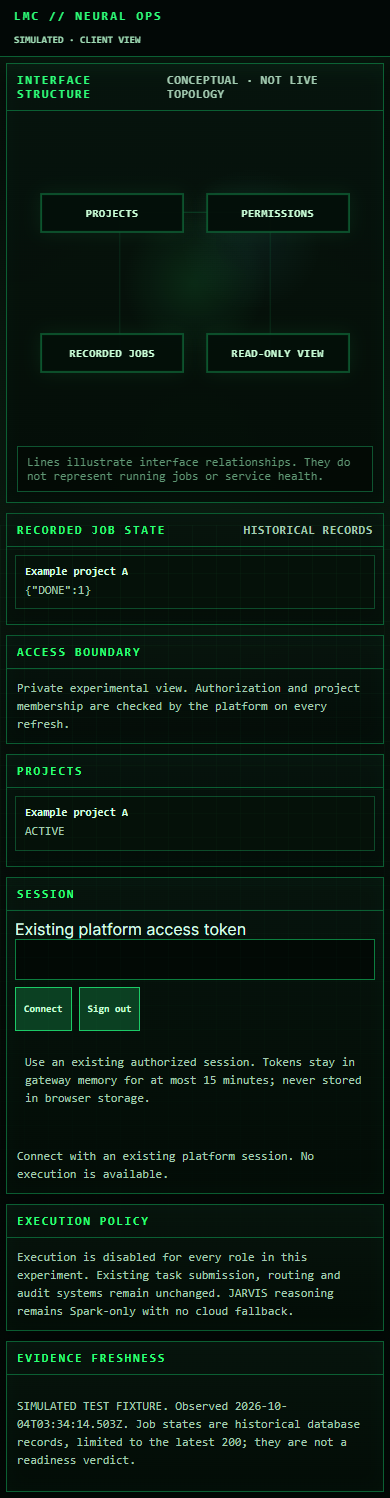
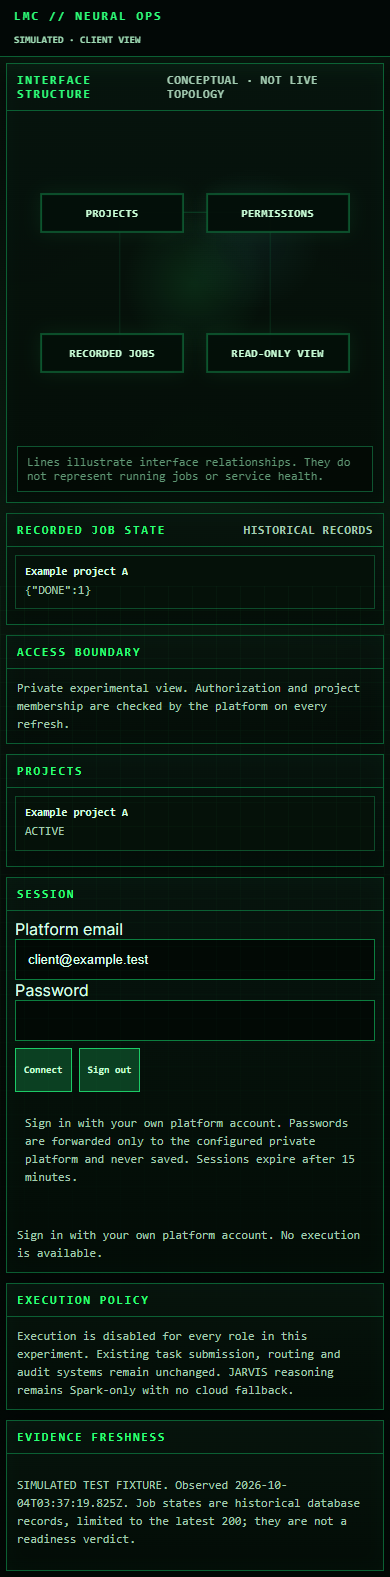
Use individual platform sign-in for private operations

diff --git a/ops.html b/ops.html
@@ -36,5 +36,5 @@ svg{position:absolute;inset:0;width:100%;height:100%}.edge{stroke:#127440;stroke
 <main class="shell">
 <section class="left"><div class="panel"><div class="ph">Access boundary</div><div class="note" id="boundary">Experimental, read-only interface. This public preview makes no private network requests and contains no project telemetry.</div></div><div class="panel"><div class="ph">Projects</div><div class="stack" id="projects"><p class="note">No authenticated project data loaded.</p></div></div></section>
 <section class="center"><div class="panel map"><div class="ph">Interface structure <span class="sub">conceptual · not live topology</span></div><svg viewBox="0 0 1000 650" preserveAspectRatio="none" aria-hidden="true"><line class="edge" x1="300" y1="220" x2="700" y2="220"/><line class="edge" x1="300" y1="220" x2="300" y2="430"/><line class="edge" x1="700" y1="220" x2="700" y2="430"/></svg><div class="node" style="left:28%;top:34%">PROJECTS</div><div class="node" style="left:72%;top:34%">PERMISSIONS</div><div class="node" style="left:28%;top:66%">RECORDED JOBS</div><div class="node" style="left:72%;top:66%">READ-ONLY VIEW</div><div class="legend">Lines illustrate interface relationships. They do not represent running jobs or service health.</div></div><div class="panel"><div class="ph">Recorded job state <span class="sub">historical records</span></div><div id="jobs" class="stack"><p class="note">No records loaded.</p></div></div></section>
-<section class="right"><div class="panel"><div class="ph">Session</div><form id="login" class="console" hidden><label for="token">Existing platform access token</label><input id="token" type="password" autocomplete="off" required><div class="actions"><button type="submit">Connect</button><button type="button" id="logout">Sign out</button></div><p class="note">Use an existing authorized session. Tokens stay in gateway memory for at most 15 minutes; never stored in browser storage.</p></form><div class="note" id="sessionNote">Private access is disabled on this public surface.</div></div><div class="panel"><div class="ph">Execution policy</div><div class="note">Execution is disabled for every role in this experiment. Existing task submission, routing and audit systems remain unchanged. JARVIS reasoning remains Spark-only with no cloud fallback.</div></div><div class="panel" id="workersPanel" hidden><div class="ph">Developer · registered capabilities</div><div class="stack" id="workers"></div><p class="note">Registration is not proof of model readiness. Heartbeat times are shown without inferring health.</p></div><div class="panel"><div class="ph">Evidence freshness</div><p class="note" id="freshness">No live observation. No simulated metrics are presented as live.</p></div></section>
+<section class="right"><div class="panel"><div class="ph">Session</div><form id="login" class="console" hidden><label for="email">Platform email</label><input id="email" type="email" autocomplete="username" required><label for="password">Password</label><input id="password" type="password" autocomplete="current-password" required><div class="actions"><button type="submit">Connect</button><button type="button" id="logout">Sign out</button></div><p class="note">Sign in with your own platform account. Passwords are forwarded only to the configured private platform and never saved. Sessions expire after 15 minutes.</p></form><div class="note" id="sessionNote">Private access is disabled on this public surface.</div></div><div class="panel"><div class="ph">Execution policy</div><div class="note">Execution is disabled for every role in this experiment. Existing task submission, routing and audit systems remain unchanged. JARVIS reasoning remains Spark-only with no cloud fallback.</div></div><div class="panel" id="workersPanel" hidden><div class="ph">Developer · registered capabilities</div><div class="stack" id="workers"></div><p class="note">Registration is not proof of model readiness. Heartbeat times are shown without inferring health.</p></div><div class="panel"><div class="ph">Evidence freshness</div><p class="note" id="freshness">No live observation. No simulated metrics are presented as live.</p></div></section>
 </main><script src="ops.js" defer></script></body></html>

diff --git a/ops.js b/ops.js
@@ -5,7 +5,7 @@ if(document.body.dataset.private==='true') {
   document.querySelector('.topnav').hidden=true; // existing public links are not private gateway routes
   $('login').hidden=false;
   $('boundary').textContent='Private experimental view. Authorization and project membership are checked by the platform on every refresh.';
-  $('sessionNote').textContent='Connect with an existing platform session. No execution is available.';
+  $('sessionNote').textContent='Sign in with your own platform account. No execution is available.';
   let busy=false, generation=0, signedOut=false;
   async function refresh(){
     if(busy||signedOut)return;busy=true;const current=generation;
@@ -19,7 +19,7 @@ if(document.body.dataset.private==='true') {
       if(!data.projects.length)row('projects','No assigned projects','No project data available to this session.');
     }catch{if(current===generation){clearData();$('status').textContent='UNAVAILABLE · SIGN IN OR RETRY';$('freshness').textContent='No current observation. Previous private data cleared; no fallback used.';}}finally{busy=false;}
   }
-  $('login').addEventListener('submit',async e=>{e.preventDefault();const current=++generation;const token=$('token').value;$('token').value='';clearData();try{const r=await fetch('/session',{method:'POST',headers:{'Content-Type':'application/json'},body:JSON.stringify({token})});if(!r.ok)throw Error();if(current!==generation)return;signedOut=false;await refresh();}catch{if(current===generation){clearData();$('status').textContent='AUTHENTICATION UNAVAILABLE';}}});
+  $('login').addEventListener('submit',async e=>{e.preventDefault();const current=++generation;signedOut=true;const email=$('email').value;const password=$('password').value;$('password').value='';clearData();try{const r=await fetch('/session',{method:'POST',headers:{'Content-Type':'application/json'},body:JSON.stringify({email,password})});if(!r.ok)throw Error();if(current!==generation)return;signedOut=false;await refresh();}catch{if(current===generation){clearData();$('status').textContent='AUTHENTICATION UNAVAILABLE';}}});
   $('logout').onclick=async()=>{++generation;signedOut=true;clearData();try{await fetch('/logout',{method:'POST'});$('status').textContent='SIGNED OUT';}catch{$('status').textContent='SIGN OUT FAILED · CLOSE THIS WINDOW';}finally{$('freshness').textContent='Private data cleared.';}};
   refresh();setInterval(refresh,15000);
 }

diff --git a/docs/NEURAL_OPS_INTEGRATION.md b/docs/NEURAL_OPS_INTEGRATION.md
@@ -22,11 +22,11 @@ The neon panels, responsive shell, project cards and topology styling originate 
 
 ## Compatibility
 
-The adapter calls only `/auth/me`, `/projects`, `/jobs`, and, for staff, `/workers` with the existing user bearer token. These match the private FastAPI source inspected for this change. The platform validates active account status, current database role and project membership. The adapter additionally intersects job project IDs with the authorized project list and projects fields explicitly; storage roots, addresses, raw job results and errors never reach clients.
+The adapter reads `/auth/me`, `/projects`, `/jobs`, and, for staff, `/workers` with the individual user bearer token. Sign-in forwards individual credentials to the existing `/auth/login`; passwords are not saved. These match the private FastAPI source inspected for this change. The platform validates active account status, current database role and project membership. The adapter additionally intersects job project IDs with the authorized project list and projects fields explicitly; storage roots, addresses, raw job results and errors never reach clients.
 
 ADMIN, PROJECT_MANAGER and INTERNAL_CREATIVE receive the developer inventory. Other authenticated roles receive the client projection and whatever projects the platform grants them. There is no browser role switch. No shared telemetry cache or cross-user state is used. A token is held in gateway memory with a 15-minute deadline and an opaque HttpOnly, SameSite=Strict cookie; HTTPS origins add Secure. Tokens are not logged or persisted. Session requests require an exact matching Origin, JSON content type, and bounded body; upstream redirects are rejected. No CORS access is granted. Upstream failures clear browser data and never invoke another provider.
 
-Task Board and Idea Inbox remain in the unchanged existing board. Existing routing, audits, project data, workers, JARVIS, JEV, ComfyUI, LightRAG and Obsidian code is untouched. This gateway has no database dependency and sends only GET upstream requests. It does not replace the existing workflow or infer model availability from a capability registration. Existing application regression testing is limited to unchanged-file verification; the production application and running jobs were not exercised or restarted.
+Task Board and Idea Inbox remain in the unchanged existing board. Existing routing, audits, project data, workers, JARVIS, JEV, ComfyUI, LightRAG and Obsidian code is untouched. This gateway has no database dependency; telemetry sends only GET upstream requests. Sign-in uses the existing authentication endpoint, preserving its login audit and last-login behavior. It does not replace the existing workflow or infer model availability from a capability registration. Existing application regression testing is limited to unchanged-file verification; the production application and running jobs were not exercised or restarted.
 
 ## Testing and screenshots
 
@@ -42,10 +42,10 @@ Checks cover default-off flag, anonymous access, cross-origin session rejection,
 
 The public Pages experience stays disconnected. `_config.yml` excludes the adapter, tests and screenshot evidence from the normal Jekyll Pages artifact. Any future custom Pages build must preserve those exclusions. Do not upload the whole source tree through a custom static artifact job.
 
-For an approved private evaluation, use a dedicated loopback port and set `OPS_ENABLED=1`, `OPS_PLATFORM_ORIGIN` to the private API origin, and `OPS_ORIGIN` to the exact browser origin; optionally set `OPS_PORT` (default 8391). Run `node private-ops/server.mjs`. The service binds loopback only. An existing platform token can establish the evaluation session; never paste tokens into public pages. The private gateway serves only its UI and telemetry, not the old public board or routing pages.
+For an approved private evaluation, use a dedicated loopback port and set `OPS_ENABLED=1`, `OPS_PLATFORM_ORIGIN` to the private API origin, and `OPS_ORIGIN` to the exact browser origin; optionally set `OPS_PORT` (default 8391). Run `node private-ops/server.mjs`. The service binds loopback only. Sign in with an individual platform account; never enter credentials on the public preview. Session attempts are capped at ten per minute per gateway. The private gateway serves only its UI and telemetry, not the old public board or routing pages.
 
-Before any client deployment: integrate the session into the approved private sign-in flow rather than manual token entry, configure private HTTPS access, confirm Pages artifact exclusions in the actual deployment build, and run real staff/client isolation and revocation tests using approved test accounts. Verify actual telemetry against the platform and assess the existing application's own security gates. These remain unverified; no production connection or deployment occurred here. This UI cannot certify Spark reasoning readiness, Vantage tour readiness, or a Monday launch.
+Before any client deployment: configure private HTTPS access, confirm Pages artifact exclusions in the actual deployment build, and run real staff/client isolation and revocation tests using approved test accounts. Verify actual telemetry against the platform and assess the existing application's own security gates. These remain unverified; no production connection or deployment occurred here. This UI cannot certify Spark reasoning readiness, Vantage tour readiness, or a Monday launch.
 
 ## Rollback
 
-Before deployment, rollback means leaving this isolated branch unmerged: nothing running has changed. During an approved private evaluation, stop only its dedicated gateway process or unset `OPS_ENABLED` and restart that gateway; its in-memory sessions disappear. Do not stop the platform or workers. Restore the prior static artifact if a public preview was separately approved and published. There are no migrations, database writes, credential changes, or model changes to reverse. Never reset the original development checkouts.
+Before deployment, rollback means leaving this isolated branch unmerged: nothing running has changed. During an approved private evaluation, stop only its dedicated gateway process or unset `OPS_ENABLED` and restart that gateway; its in-memory sessions disappear. Do not stop the platform or workers. Restore the prior static artifact if a public preview was separately approved and published. There are no migrations, project mutations, credential changes, or model changes to reverse; normal platform sign-in audit records are retained. Never reset the original development checkouts.
